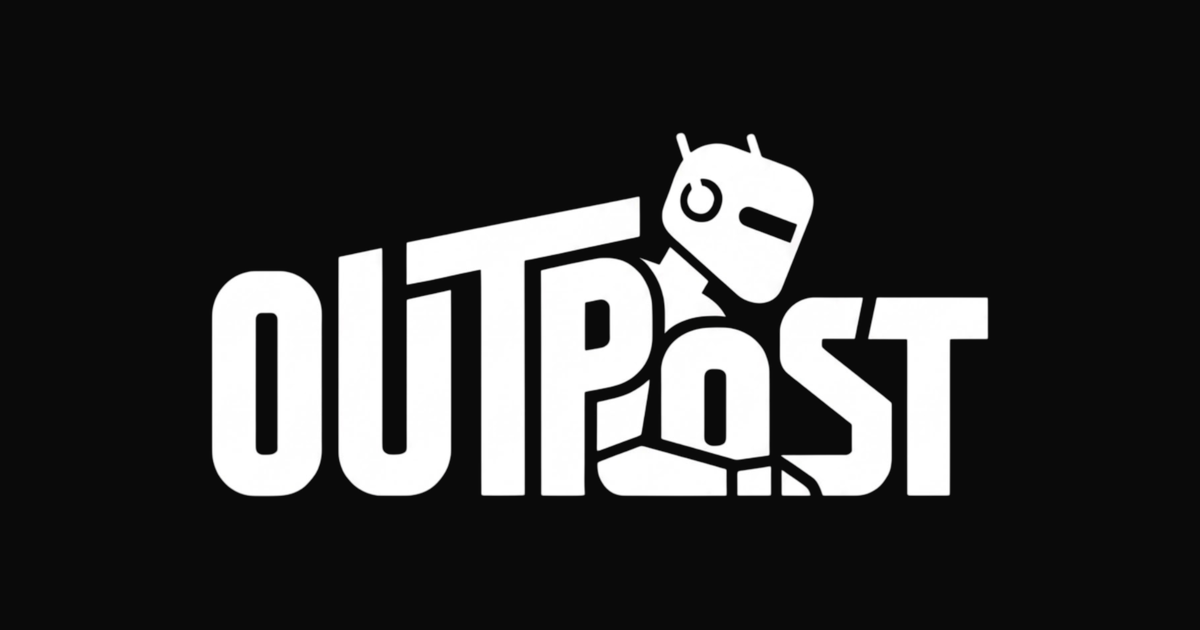
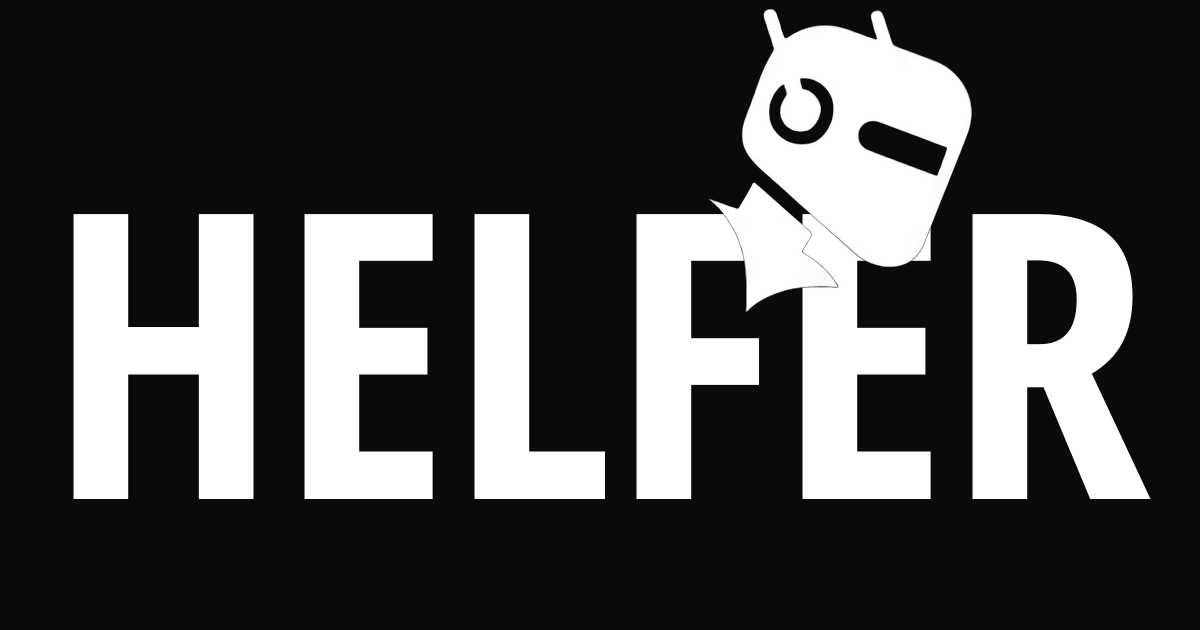
refactor: update references from Outpost to Helfer across components and assets

Changed region(s): [[0.0617, 0.0, 0.9558, 0.8143]]

diff --git a/app/api/agent/route.ts b/app/api/agent/route.ts
@@ -9,7 +9,7 @@ import { prisma } from "@/lib/prisma";
 import type { Prisma } from "@/lib/generated/prisma/client";
 
 
-const SYSTEM_PROMPT = `You are Outpost's workspace agent. A workspace has two surfaces: a canvas (an infinite whiteboard for diagrams) and a doc (a rich-text document). You change them only by calling tools, never by describing changes in text. Never use em dashes in your replies.
+const SYSTEM_PROMPT = `You are Helfer's workspace agent. A workspace has two surfaces: a canvas (an infinite whiteboard for diagrams) and a doc (a rich-text document). You change them only by calling tools, never by describing changes in text. Never use em dashes in your replies.
 
 Choosing where to work:
 - If the user names a surface ("in the doc", "just the diagram", "only the canvas"), change only that surface.

diff --git a/app/globals.css b/app/globals.css
@@ -49,7 +49,7 @@
   --radius-4xl: calc(var(--radius) * 2.6);
 }
 
-/* Outpost is dark-mode only, so :root and .dark share one palette — no light variant to maintain. */
+/* Helfer is dark-mode only, so :root and .dark share one palette — no light variant to maintain. */
 :root,
 .dark {
   --background: oklch(0.13 0.004 285);
@@ -112,7 +112,7 @@
   }
 }
 
-/* Topographic contours (public/textures/topo.svg): Outpost's background identity, a nod to
+/* Topographic contours (public/textures/topo.svg): Helfer's background identity, a nod to
    mapping unknown territory. Opt-in per section, never over the doc or canvas editors.
    The SVG is used as a mask over a color gradient, so lines glow amber at the center and cool to grey
    at the edges; a second mask layer fades the whole map out softly. */

diff --git a/components/PlanButton.tsx b/components/PlanButton.tsx
@@ -11,7 +11,7 @@ import { getActivePromptUsage } from "@/actions/usage";
 
 type Usage = Awaited<ReturnType<typeof getActivePromptUsage>>;
 
-const USAGE_CHANGED_EVENT = "outpost:prompt-usage-changed";
+const USAGE_CHANGED_EVENT = "helfer:prompt-usage-changed";
 
 // Called after an agent response, so the header count stays current without a reload.
 export function refreshPromptUsage() {

diff --git a/app/(main)/workspace/_components/CanvasEditor.tsx b/app/(main)/workspace/_components/CanvasEditor.tsx
@@ -119,7 +119,7 @@ export function CanvasEditor({
   }, [userId, userName]);
 
   // The Postgres autosave below also re-seeds a room that starts empty.
-  const store = useCanvasSync({ roomId: `outpost-${workspaceId}`, users });
+  const store = useCanvasSync({ roomId: `helfer-${workspaceId}`, users });
 
   const handleMount = (editor: Editor) => {
     setCanvasEditor(editor);

diff --git a/app/shared/[token]/page.tsx b/app/shared/[token]/page.tsx
@@ -39,7 +39,7 @@ async function SharedWorkspace({
         <Link href="/" className="flex items-center gap-2">
           <Image
             src="/brand/mascot-dark.png"
-            alt="Outpost"
+            alt="Helfer"
             width={24}
             height={24}
             className="size-6"

diff --git a/components/SiteHeader.tsx b/components/SiteHeader.tsx
@@ -29,7 +29,7 @@ export function SiteHeader() {
       >
         <Image
           src="/brand/logo-navbar-dark.png"
-          alt="Outpost"
+          alt="Helfer"
           width={314}
           height={160}
           className="h-9 w-auto"
